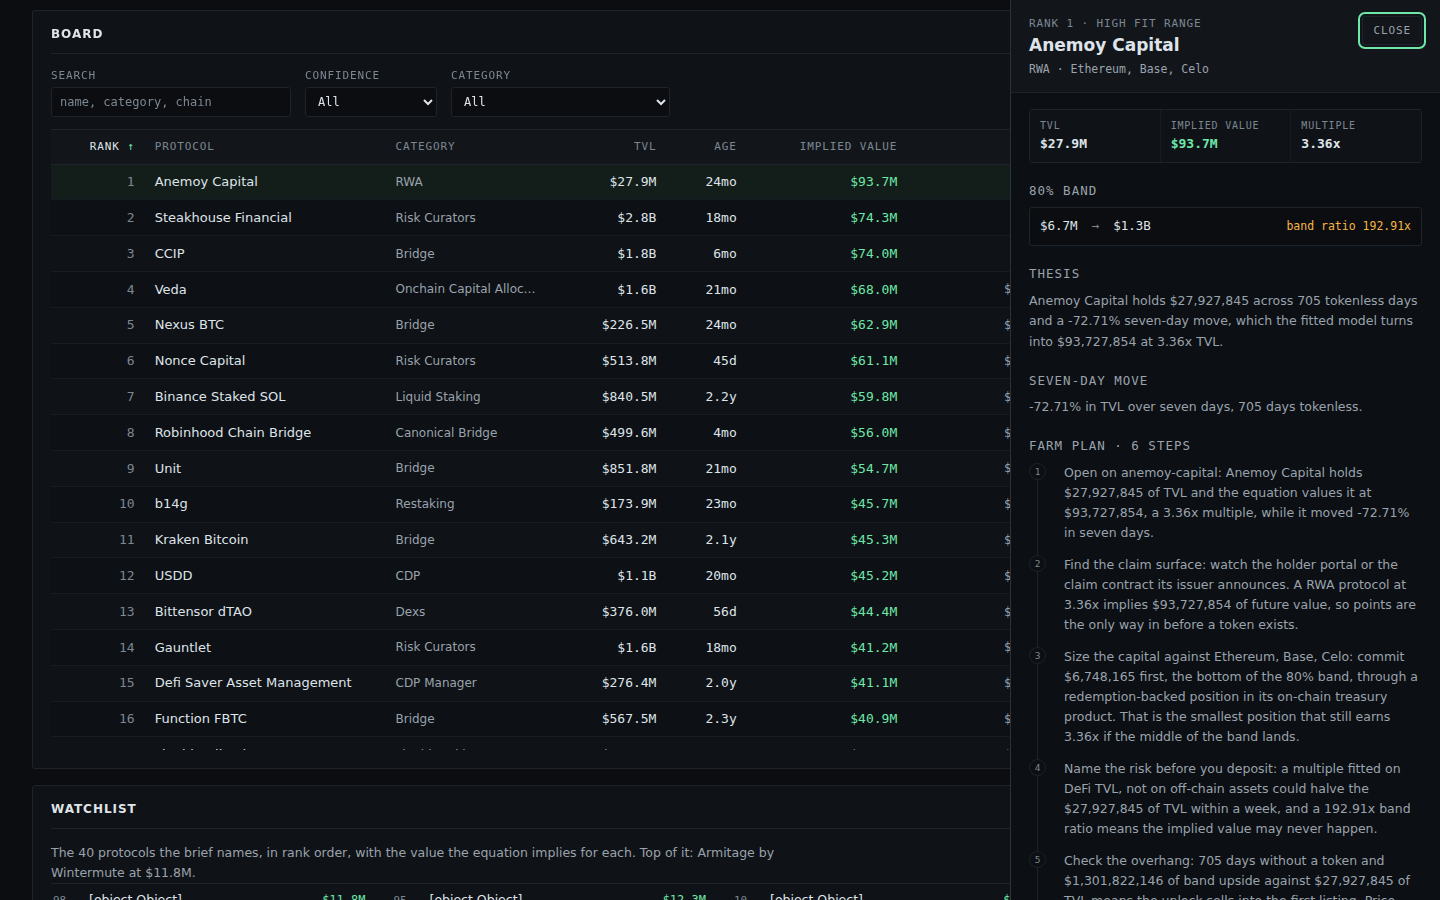
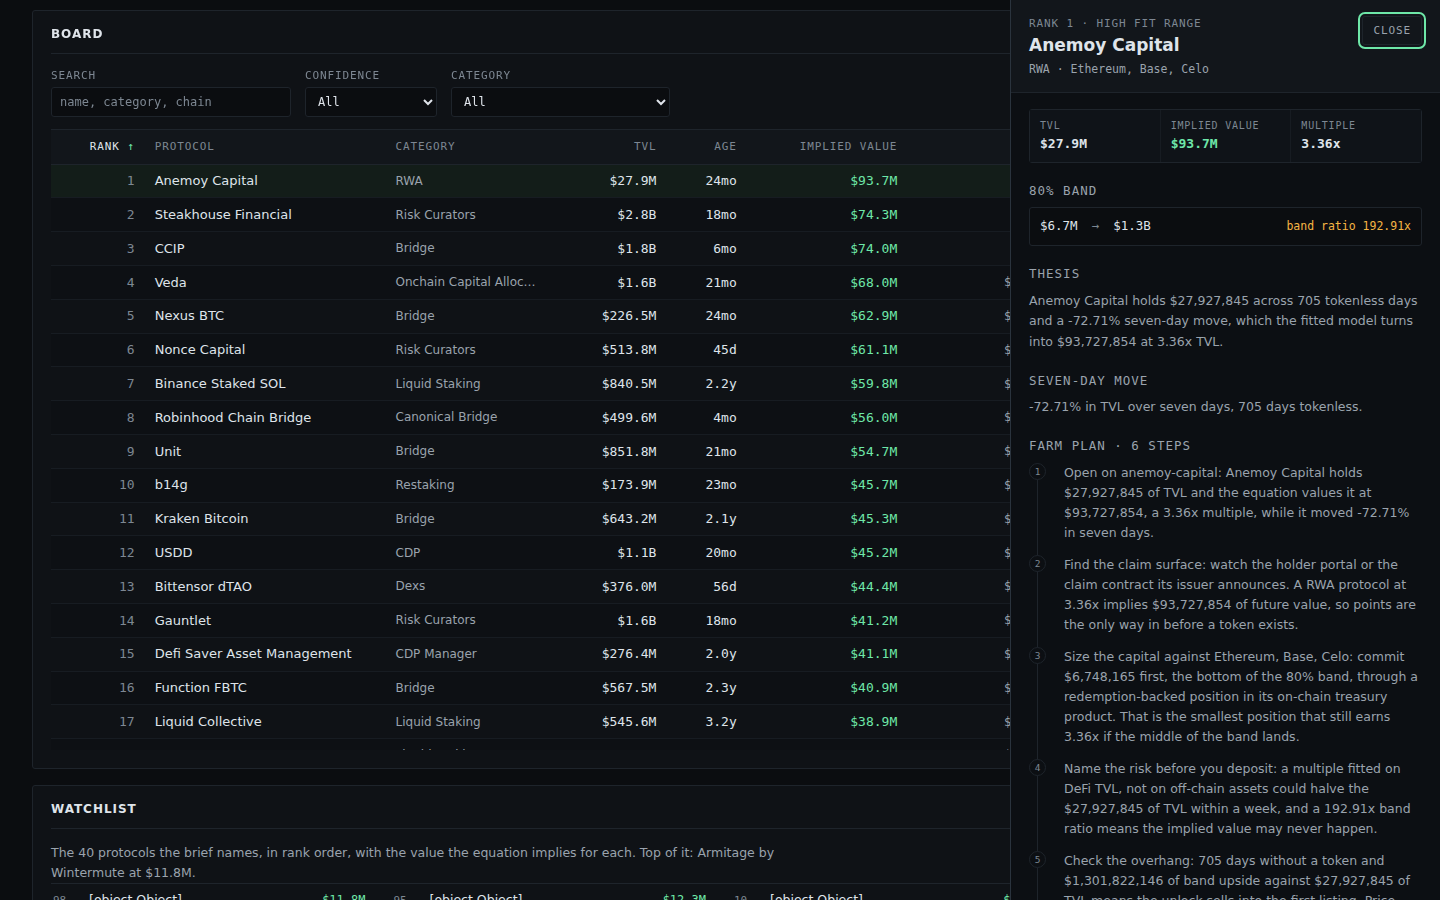
main.ts: copy only image files from screenshots

diff --git a/dashboard/app.js b/dashboard/app.js
@@ -70,10 +70,9 @@ function bandLabel(low, high) {
 /** The fit-range chip. Not a probability: it says whether TVL sits in the fitted range. */
 function confidenceChip(level) {
   const key = String(level || '').toLowerCase();
-  const word = key === 'high' ? 'in range' : key === 'medium' ? 'edge' : 'extrapolated';
   const span = document.createElement('span');
   span.className = `chip ${key || 'low'}`;
-  span.textContent = word;
+  span.textContent = key || 'low';
   span.title =
     key === 'high'
       ? 'High: TVL between the 25th and 75th percentile of the 128 training rows ($10.4M to $98.2M).'
@@ -112,6 +111,8 @@ function el(tag, clsOrAttrs, content) {
   if (content != null) {
     if (Array.isArray(content)) {
       for (const c of content) if (c) node.append(c);
+    } else if (content instanceof Node) {
+      node.append(content);
     } else {
       node.textContent = String(content);
     }
@@ -385,7 +386,7 @@ function drawLines(ctx, s, box, lo, hi, hasPoints) {
   ctx.lineWidth = 1;
 }
 
-/** Training points, then the fitted cone for whatever the axes cover. */
+/** The 128 training rows as dots, at implied value against actual market cap. */
 function drawPoints(ctx, s, rows) {
   ctx.fillStyle = 'rgba(110, 231, 168, 0.55)';
   for (const p of rows) {
@@ -448,34 +449,37 @@ function renderCalibration() {
   });
 }
 
-/** Side column and canvas label: point count, and whether this is the real scatter. */
+/** Side column and canvas note: point count, band width, and the share the band covers. */
 function stampCalibration(rows, box) {
   const m = R.model;
   const band = Math.exp(m.BAND_Z * m.RESID_SD);
   const facts = document.getElementById('cal-facts');
   if (!facts.childElementCount) {
-    const loo = R.calibration && R.calibration.loo;
+    const inside = rows.filter((r) => r.actual_usd <= r.implied_usd * band && r.actual_usd >= r.implied_usd / band);
     facts.append(
       fact('Training points', String(rows.length)),
       fact('Band width', `${band.toFixed(2)}x`, true),
       fact('Residual SD', num(m.RESID_SD, 3)),
-      loo ? fact('Within 2x', `${loo.within2x} / ${loo.n}`) : fact('Rank (LOO)', num(R.calibration?.slope, 3)),
+      fact('Inside the band', rows.length ? `${inside.length} of ${rows.length}` : '—'),
     );
   }
   const note = document.getElementById('cal-note');
   note.textContent = rows.length
     ? `Each dot is one of the ${rows.length} protocols the fit used, at its implied value against its actual market cap. ` +
       `The white line is 1:1; the amber lines are the 80% band, ×${band.toFixed(2)} and ÷${band.toFixed(2)}. ` +
-      `Dots at the top left are protocols the equation undervalues, which is why the queue is a research list.`
-    : `The radar object carries no training rows here, so no scatter is drawn. The amber cone is the fitted band only: ` +
+      `Dots above the band are protocols the equation undervalues, which is why this is a research queue.`
+    : `The payload carries no training rows, so no scatter is drawn. The amber cone is the fitted band alone: ` +
       `the region between ×${band.toFixed(2)} and ÷${band.toFixed(2)} of the equation, labelled as such.`;
-  if (!rows.length) {
-    const ctx = document.getElementById('cal-canvas').getContext('2d');
-    ctx.font = '11px ui-monospace, SFMono-Regular, Menlo, Consolas, monospace';
-    ctx.fillStyle = '#f5b544';
-    ctx.textAlign = 'left';
-    ctx.fillText('fitted band only — no training rows in this payload', box.x + 8, box.y + 2);
-  }
+  if (!rows.length) labelEmptyPlot(box);
+}
+
+/** Honest label on an empty plot, so the cone is never read as data. */
+function labelEmptyPlot(box) {
+  const ctx = document.getElementById('cal-canvas').getContext('2d');
+  ctx.font = '11px ui-monospace, SFMono-Regular, Menlo, Consolas, monospace';
+  ctx.fillStyle = '#f5b544';
+  ctx.textAlign = 'left';
+  ctx.fillText('fitted band only — no training rows in this payload', box.x + 8, box.y + 4);
 }
 
 /* 8. BOARD: ROWS, SORT, FILTER --------------------------------------------- */
@@ -537,7 +541,16 @@ function buildBoard() {
     rowEls.set(row.slug, tr);
     frag.append(tr);
   }
-  document.getElementById('board-body').append(frag);
+  document.getElementById('board-body').append(frag, emptyRow());
+}
+
+/** The row shown when the filters exclude everything, so the table never reads as broken. */
+function emptyRow() {
+  const td = el('td', { class: 'empty', text: 'No candidate matches these filters. Clear the query or widen the category.' });
+  td.colSpan = 9;
+  const tr = el('tr', 'is-empty', td);
+  tr.hidden = true;
+  return tr;
 }
 
 /** Reorders the existing nodes. No rebuild, no new elements. */
@@ -551,7 +564,9 @@ function applySort(key, dir) {
     return a.rank - b.rank;
   });
   const body = document.getElementById('board-body');
+  const empty = body.querySelector('.is-empty');
   for (const row of sorted) body.append(rowEls.get(row.slug));
+  if (empty) body.append(empty);
 }
 
 /** Mark the visible rows; hidden rows stay in the DOM for sorting. */
@@ -569,6 +584,8 @@ function applyFilter() {
     el('b', null, String(visible)),
     document.createTextNode(` of ${R.board.length} candidates`),
   );
+  const empty = document.querySelector('.is-empty');
+  if (empty) empty.hidden = visible > 0;
 }
 
 /** Debounce wrapper: 120 ms, matching the filter contract. */
@@ -657,7 +674,7 @@ function drawerContent(row) {
 
 function openDrawer(row) {
   if (!lastFocus) lastFocus = document.activeElement;
-  document.getElementById('d-kicker').textContent = `Rank ${row.rank} · ${row.confidence} fit range`;
+  document.getElementById('d-kicker').textContent = `Rank ${row.rank} · fit range ${row.confidence}`;
   document.getElementById('d-name').textContent = row.name;
   document.getElementById('d-sub').textContent = `${row.category} · ${(row.chains || []).join(', ') || 'no chain listed'}`;
   const body = document.getElementById('d-body');

diff --git a/dashboard/app.css b/dashboard/app.css
@@ -313,9 +313,10 @@ caption { text-align: left; }
   overflow-wrap: anywhere;
 }
 
-.compare td.num { white-space: nowrap; }
-
-.compare td.num { font-family: var(--mono); }
+.compare td.num {
+  font-family: var(--mono);
+  white-space: nowrap;
+}
 
 .compare tr.chosen td {
   background: #101a16;
@@ -323,7 +324,8 @@ caption { text-align: left; }
 }
 
 .compare tr.chosen td:first-child {
-  box-shadow: inset 2px 0 0 var(--accent);
+  border-left: 2px solid var(--accent);
+  padding-left: 8px;
   color: var(--accent);
 }
 
@@ -402,6 +404,7 @@ caption { text-align: left; }
 /* 9. BOARD TABLE ----------------------------------------------------------- */
 .board-scroll {
   max-height: 620px;
+  overflow-x: auto;
   overflow-y: auto;
   overscroll-behavior: contain;
 }
@@ -481,6 +484,14 @@ caption { text-align: left; }
 .board tbody tr:focus-visible { outline: 2px solid var(--accent); outline-offset: -2px; }
 
 .board tbody tr.is-hidden { display: none; }
+.board tbody tr.is-empty[hidden] { display: none; }
+.board td.empty {
+  padding: 26px 10px;
+  color: var(--ink-faint);
+  font: 12px/1.5 var(--mono);
+  text-align: center;
+  white-space: normal;
+}
 
 .chip {
   display: inline-block;
@@ -580,7 +591,7 @@ caption { text-align: left; }
 .d-figs > div { background: #0f1318; padding: 9px 10px; }
 .d-figs dt {
   color: var(--ink-faint);
-  font: 10px/1.4 var(--mono);
+  font: 11px/1.4 var(--mono);
   text-transform: uppercase;
   letter-spacing: 0.08em;
 }

diff --git a/main.ts b/main.ts
@@ -16,6 +16,7 @@ import { buildDossier } from './vendor/makefun-board.ts';
 const TEXT_MAX_BYTES = 65_536;
 const SCREENSHOT_CAPS = { max: 4, max_bytes: 524_288 };
 const IMAGE_NAME = /^[A-Za-z0-9_][A-Za-z0-9._-]{0,127}$/;
+const IMAGE_EXT = /\.(png|jpe?g)$/i;
 
 const here = fileURLToPath(new URL('.', import.meta.url));
 
@@ -68,7 +69,8 @@ writeFileSync(join(out, 'board.json'), `${JSON.stringify({ rows: board })}\n`);
 writeFileSync(join(out, 'data.js'), dataScript(radar));
 
 const dashboard = copyFiles(join(here, 'dashboard'), join(out, 'dashboard'));
-const shots = copyFiles(join(here, 'screenshots'), join(out, 'screenshots'));
+// Only images travel: a stray HTML or script beside them would break the dossier.
+const shots = copyFiles(join(here, 'screenshots'), join(out, 'screenshots')).filter((name) => IMAGE_EXT.test(name));
 if (shots.length < 3) {
   const count = `${shots.length} image${shots.length === 1 ? '' : 's'}`;
   fail(`screenshots/ holds ${count} and the entry needs three: the board, a detail view and a filtered view.`, 1);

diff --git a/verify-radar.js b/verify-radar.js
@@ -53,7 +53,7 @@ const PAGE = 'file://' + path.resolve(__dirname, 'out/dashboard/index.html');
         emoji: /[\u{1F300}-\u{1FAFF}\u{2600}-\u{27BF}]/u.test(document.body.innerText),
       };
     });
-    await page.screenshot({ path: `screenshots/check-${w}.png`, fullPage: false });
+    await page.screenshot({ path: `/tmp/radar-check-${w}.png`, fullPage: false });
     await ctx.close();
   }
 
@@ -121,7 +121,7 @@ const PAGE = 'file://' + path.resolve(__dirname, 'out/dashboard/index.html');
       outline: getComputedStyle(close).outlineColor,
     };
   });
-  await page.screenshot({ path: 'screenshots/check-drawer.png' });
+  await page.screenshot({ path: '/tmp/radar-check-drawer.png' });
   await page.keyboard.press('Escape');
   const closed = await page.evaluate(() => document.getElementById('drawer').hidden);
 
